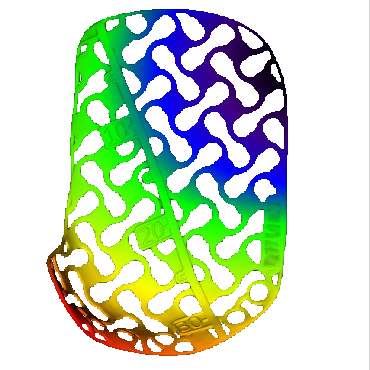
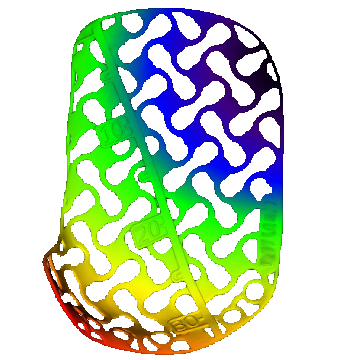
Script for building Slicer-Extension-Archive

diff --git a/readme.md b/readme.md
@@ -1,0 +1,28 @@
+# Slicer PSOI Evaluation extension
+
+## dependencies
+
+ModelToModelDistance
+SlicerIGT
+SlicerRT
+
+## packing the slicer extension
+
+Execute make_extension_package.sh. Adjust version-Veriable if necessary
+
+## Manually packing into slicer extension
+
+### create folder structure for extension
+
+slicer_psoi_evaluation_extension/
+|- lib/
+  |- Slicer-5.8/
+    |- qt-scripted-modules/ -> references the PSOIEvaluation-directory
+|- share/
+  |- Slicer-5.8/
+    |- PSOIEvaluation.s4ext -> references the PSOI-Evaluation.s4ext in the main project directory
+    
+### create the archive
+
+	tar -cvf slicer_psoi_evaluation.tar.gz -h slicer_psoi_evaluation_extension --dereference --gzip
+